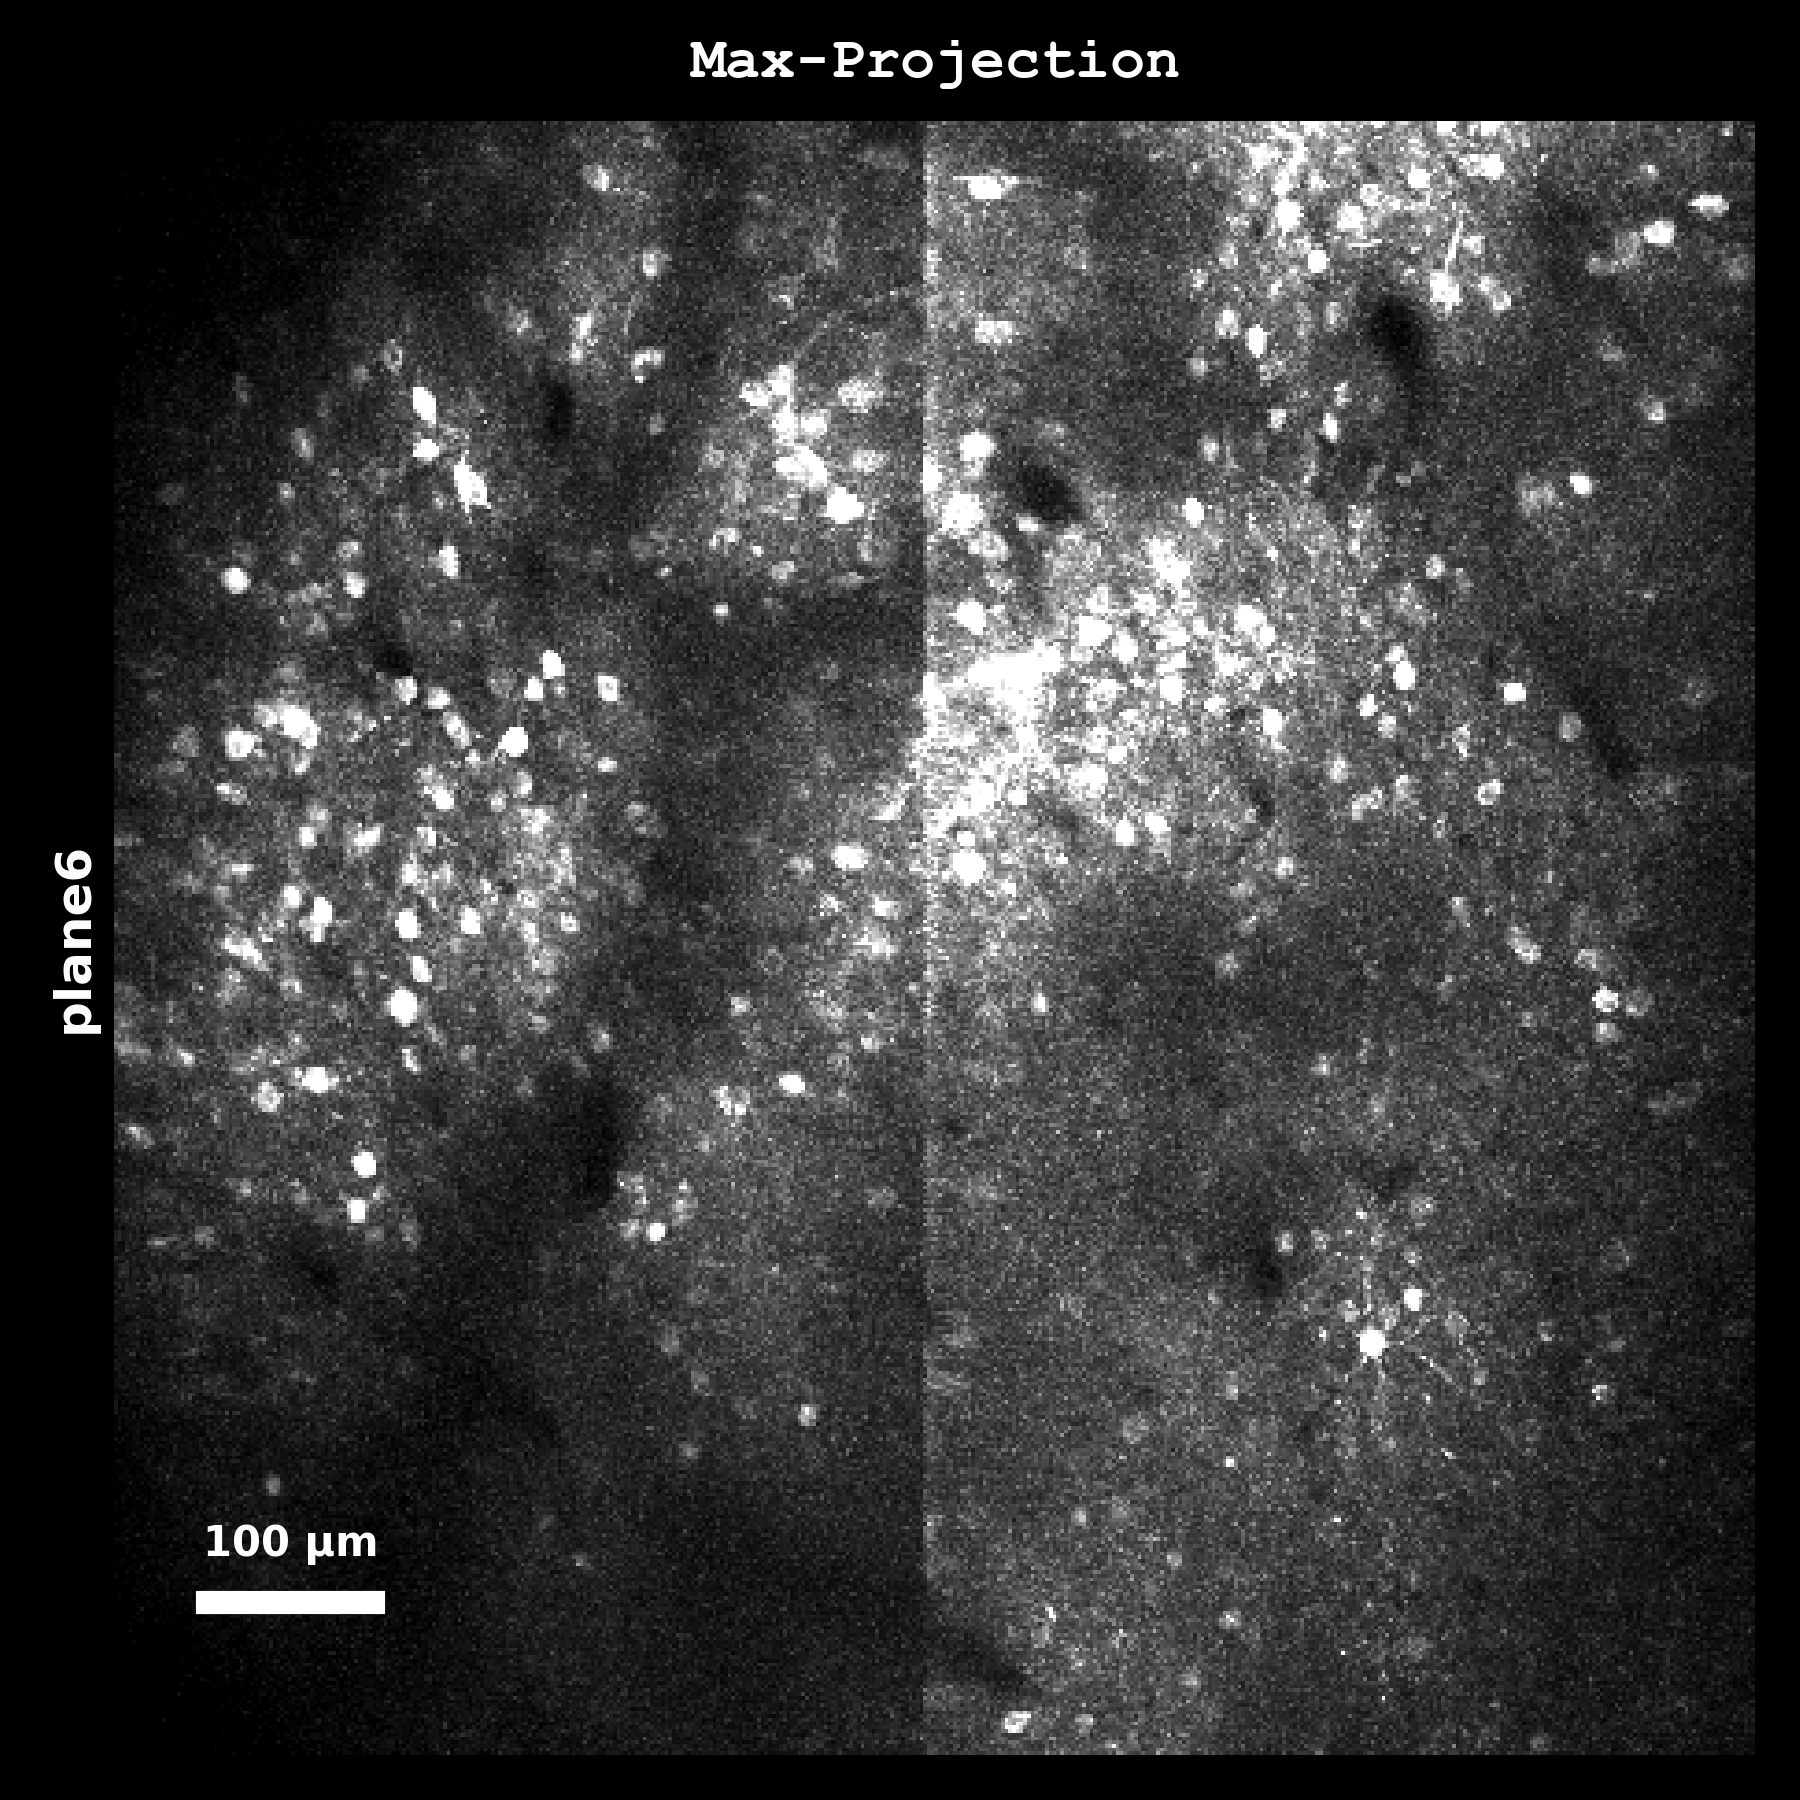
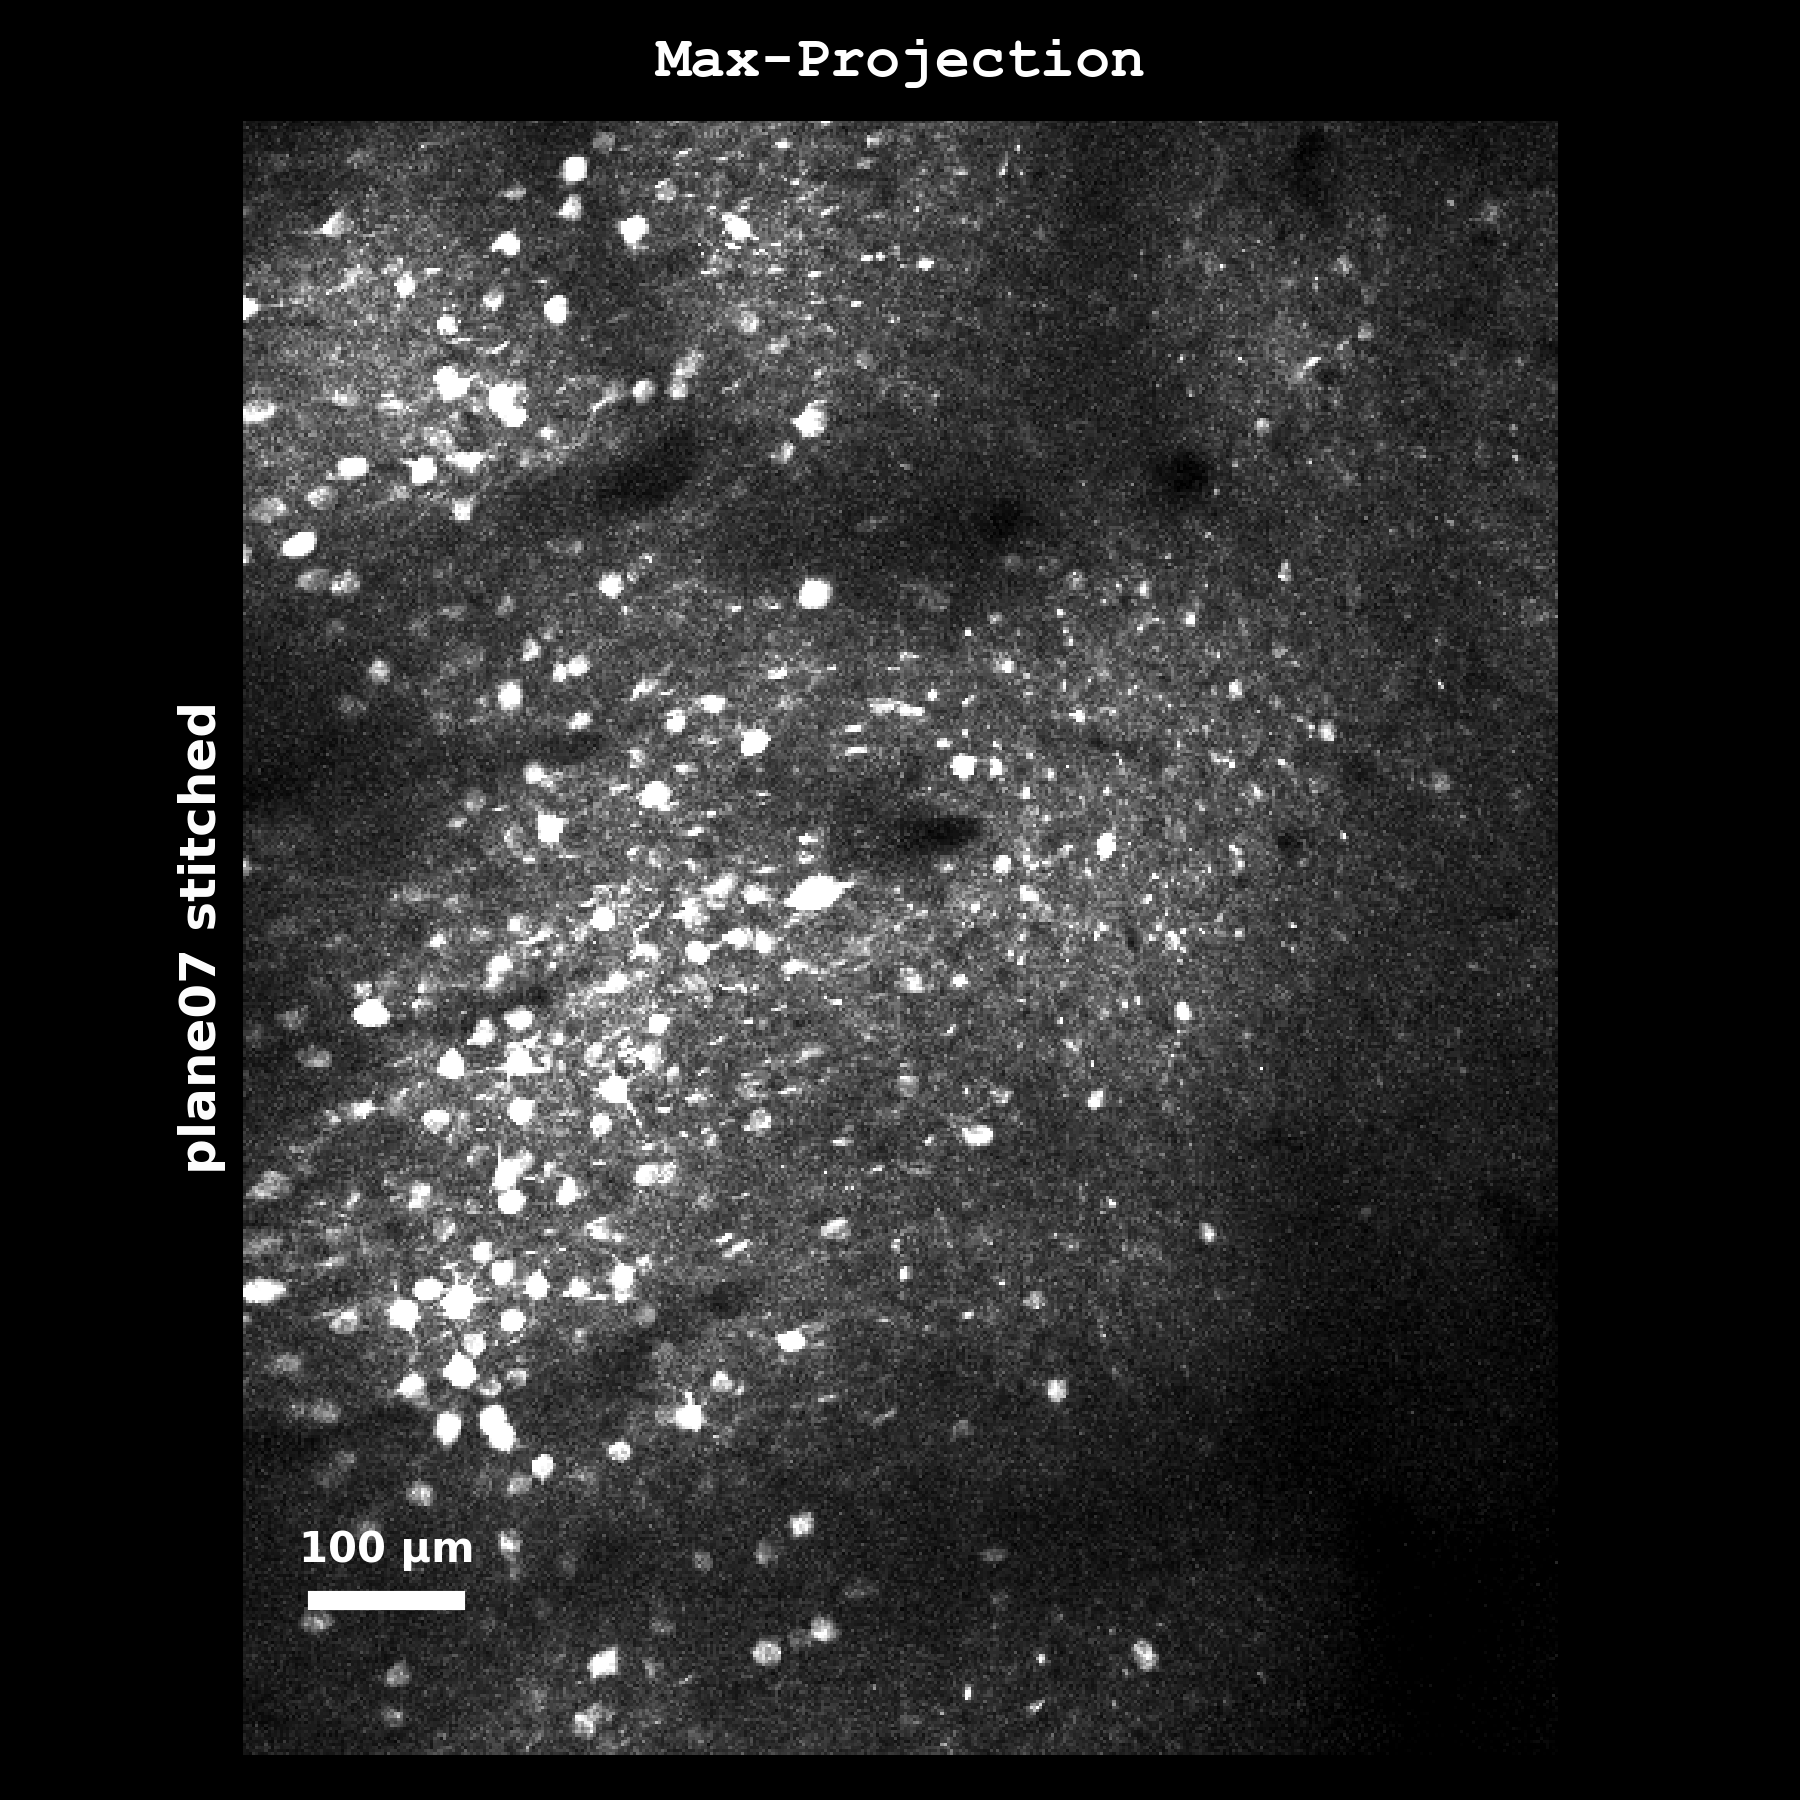
update readme, user guide, grid-search nb

diff --git a/demos/scripts/run_volume.py b/demos/scripts/run_volume.py
@@ -1,20 +1,23 @@
 from pathlib import Path
 import lbm_suite2p_python as lsp
 
-base_dir = r"D:\demo\local_nvme"
-filename = "data_raw.bin"
+base_dir = r"D:\demo\ome_v2\sharded"
+query_str = ".zarr"
 
-input_files = list(Path(base_dir).rglob(f"*{filename}*"))
+input_files = list(Path(base_dir).rglob(f"*{query_str}*"))
 
 new_ops = {
     "anatomical_only": 3,
     "diameter": 4,
     "cellprob_threshold": -6,
     "flow_threshold": 0,
-    "two_step_registration": True,
+    "spatial_hp_cp": 0.5,
 }
 
 lsp.run_volume(
     input_files=input_files,
+    save_path=None, # saves next to input files
     ops=new_ops,
+    keep_raw=True,
+    keep_reg=True,
 )

diff --git a/README.md b/README.md
@@ -6,65 +6,35 @@
 
 A volumetric 2-photon calcium imaging processing pipeline for Light Beads Microscopy (LBM) datasets, built on Suite2p.
 
-A GUI is available via [mbo_utilities]() Functionality is available via GUI
-around [mbo_utilities]() which handles .tiff, .zarr, .bin, and .h5 file I/O
+A GUI is available via [mbo_utilities](https://millerbrainobservatory.github.io/mbo_utilities/index.html#gui).
+
+GUI functionality will lag behind this pipeline.
 
 > **Status:** Late-beta stage of development
 
-## Overview
-
-LBM-Suite2p-Python processes multi-plane calcium imaging data by:
-1. Converting raw TIFF files to binary format for Suite2p
-2. Running registration, segmentation, and extraction on individual z-planes
-3. Aggregating planar results into volumetric outputs
-4. Providing visualization and analysis tools
-
-**Key Features:**
-- Planar-by-planar Suite2p processing optimized for volumetric data
-- ScanImage multi-ROI support with automatic detection and merging
-- Robust binary validation to avoid redundant reprocessing
-- Post-processing filters (area, eccentricity, exceptional events)
-- ΔF/F calculation with rolling percentile baseline
-- Volumetric visualization and Rastermap clustering
-
 ## Quick Start
 
-### Installation
+See the [installation documentation](https://millerbrainobservatory.github.io/LBM-Suite2p-Python/install.html) for GUI dependencies and troubleshooting.
 
 ```bash
-# Recommended: using uv
 uv pip install lbm_suite2p_python
-
-# Or with pip
-pip install lbm_suite2p_python
-
-# Development install from source
-git clone https://github.com/MillerBrainObservatory/LBM-Suite2p-Python.git
-cd LBM-Suite2p-Python
-pip install -e "."
 ```
-
-**Python requirement:** 3.12.7 to <3.12.10
-
-See [Installation Guide](https://millerbrainobservatory.github.io/LBM-Suite2p-Python/install.html) for detailed instructions.
 
 ### Basic Usage
 
 ```python
-import mbo_utilities as mbo
 import lbm_suite2p_python as lsp
 
-# Get list of z-plane TIFFs (planar timeseries format: T, Y, X)
-files = mbo.get_files(data_dir, "tiff", max_depth=3)
-
-# Get metadata and create ops
-metadata = mbo.get_metadata(files[0])
-ops = mbo.params_from_metadata(metadata)
+ops = {"two_step_registration": 1}
+files = [
+    r"D://demo//plane05_stitched.zarr",
+    r"D://demo//plane06_stitched.zarr",
+]
 
 # Process entire volume
 output_ops = lsp.run_volume(
     input_files=files,
-    save_path=save_dir,
+    save_path=None,     # save next to tiffs
     ops=ops,
     keep_reg=True,      # Keep registered binaries
     force_reg=False,    # Skip if already registered
@@ -75,66 +45,19 @@ output_ops = lsp.run_volume(
 **Process a single plane:**
 ```python
 ops_file = lsp.run_plane(
-    input_path=plane_file,
-    save_path=plane_dir,
+    input_path=files[0],
+    save_path=None,
     ops=ops,
     keep_raw=False,  # Delete data_raw.bin after processing
     keep_reg=True    # Keep data.bin (registered binary)
 )
 ```
 
-See [User Guide](https://millerbrainobservatory.github.io/LBM-Suite2p-Python/user_guide.html) for complete examples and parameter tuning.
-
-## Output Structure
-
-**Per-plane outputs:**
-```
-{save_path}/{plane_tag}/
-├── ops.npy              # Suite2p operations and results
-├── stat.npy             # ROI statistics (pixel coordinates, weights)
-├── F.npy                # Fluorescence traces (n_rois, n_frames)
-├── Fneu.npy             # Neuropil fluorescence
-├── spks.npy             # Deconvolved spike traces
-├── iscell.npy           # Classification (is_cell, probability)
-├── data.bin             # Registered binary (if keep_reg=True)
-├── pc_metrics/          # Principal component analysis
-└── *.png                # Visualization plots
-```
-
-**Volumetric outputs (at save_path root):**
-```
-{save_path}/
-├── volume_stats.npy     # Per-plane statistics
-├── rastermap.png        # Clustered activity (if rastermap installed)
-└── mean_volume_signal.png  # Signal strength across planes
-```
-
-## Key Parameters
-
-Critical Suite2p parameters (see [Parameter Guide](https://millerbrainobservatory.github.io/LBM-Suite2p-Python/user_guide.html#parameters)):
-
-| Parameter | Effect | Default | Recommended |
-|-----------|--------|---------|-------------|
-| `diameter` | Expected cell size (pixels) | 0 (auto) | 6-15 for neurons |
-| `threshold_scaling` | Detection sensitivity | 1.0 | 0.8-1.5 (higher = fewer ROIs) |
-| `tau` | Ca²⁺ decay constant (s) | 1.0 | 0.7-2.0 (GCaMP6f: ~1.0) |
-| `fs` | Frame rate (Hz) | 10.0 | Must match acquisition |
-| `nonrigid` | Block-wise registration | True | True for drifting FOV |
-| `do_registration` | Registration mode | 1 (run if needed) | 0=skip, 1=auto, 2=force |
-
-**LBM-specific defaults:**
-- `nplanes=1` - Process each z-plane independently
-- `do_bidiphase=0` - Assumes pre-corrected data
-- `do_regmetrics=True` - Always compute registration quality
-
 ## Documentation
 
-- **[Full Documentation](https://millerbrainobservatory.github.io/LBM-Suite2p-Python/)**
 - **[Installation Guide](https://millerbrainobservatory.github.io/LBM-Suite2p-Python/install.html)**
 - **[User Guide](https://millerbrainobservatory.github.io/LBM-Suite2p-Python/user_guide.html)** - Complete usage examples
 - **[API Reference](https://millerbrainobservatory.github.io/LBM-Suite2p-Python/api.html)**
-- **[Glossary](https://millerbrainobservatory.github.io/LBM-Suite2p-Python/glossary.html)**
-- **[CLAUDE.md](./CLAUDE.md)** - Technical deep-dive for AI assistants
 
 ## Built With
 
@@ -145,32 +68,6 @@ This pipeline integrates several open-source tools:
 - **[Rastermap](https://github.com/MouseLand/rastermap)** - Activity clustering (optional)
 - **[mbo_utilities](https://github.com/MillerBrainObservatory/mbo_utilities)** - ScanImage I/O and metadata
 - **[scanreader](https://github.com/atlab/scanreader)** - ScanImage metadata parsing
-
-## Citation
-
-If you use this pipeline, please cite:
-
-```bibtex
-@article{pachitariu2017suite2p,
-  title={Suite2p: beyond 10,000 neurons with standard two-photon microscopy},
-  author={Pachitariu, Marius and Stringer, Carsen and Dipoppa, Mario and Schr{\"o}der, Sylvia and Rossi, L Federico and Dalgleish, Henry and Carandini, Matteo and Harris, Kenneth D},
-  journal={bioRxiv},
-  pages={061507},
-  year={2017},
-  publisher={Cold Spring Harbor Laboratory}
-}
-
-@article{duemani2021light,
-  title={Light-beads microscopy for volumetric imaging},
-  author={Duemani Reddy, Gaddum and Kelleher, Kripa and Fink, Reid and Saggau, Peter},
-  journal={Nature methods},
-  volume={18},
-  number={9},
-  pages={1082--1090},
-  year={2021},
-  publisher={Nature Publishing Group}
-}
-```
 
 ## Issues & Support
 
@@ -184,17 +81,3 @@ Contributions are welcome! This project follows Suite2p's conventions and uses:
 - **Ruff** for linting and formatting (line length: 88, numpy docstring style)
 - **pytest** for testing
 - **Sphinx** for documentation
-
-## Acknowledgements
-
-This pipeline is primarily a volumetric wrapper around the excellent work by:
-- **Suite2p team** (Marius Pachitariu, Carsen Stringer, et al.)
-- **Cellpose team** (Carsen Stringer, Marius Pachitariu, et al.)
-- **Suite3D** (Ali Haydaroglu)
-- **scanreader team** (atlab)
-
-Special thanks to the Miller Brain Observatory team for testing and feedback.
-
-## License
-
-See LICENSE file for details.

diff --git a/docs/user_guide.md b/docs/user_guide.md
@@ -18,14 +18,19 @@ import mbo_utilities as mbo
 import lbm_suite2p_python as lsp
 from pathlib import Path
 
-# 1. Get assembled planar TIFF files
-files = mbo.get_files(data_dir, "tiff", max_depth=3)
+# 1. Get planar outputs from mbo.imwrite
+data_dir = Path(r"D://demo//local_nvme")
 
-# 2. Extract metadata and create ops
-metadata = mbo.get_metadata(files[0])
-ops = mbo.params_from_metadata(metadata)  # Auto-fills fs, dx, dy, Ly, Lx
+files = mbo.get_files(data_dir, "tiff", max_depth=3) # tiff
+files = list(data_dir.glob("*.zarr*"))               # zarr
+files = list(data_dir.glob("*data_raw.bin*"))        # suite2p binary
 
 # 3. Process entire volume
+save_dir = Path(r"D://demo//local_nvme//suite2p")
+ops = {
+    "two_step_registration": True # default is False
+}
+
 output_ops = lsp.run_volume(
     input_files=files,
     save_path=save_dir,
@@ -43,8 +48,8 @@ For testing parameters or processing individual planes:
 
 ```python
 ops_file = lsp.run_plane(
-    input_path=plane_file,
-    save_path=plane_dir,
+    input_path=files[0],
+    save_path=save_dir,
     ops=ops,
     chan2_file=None,     # Optional: structural channel for registration
     keep_raw=False,
@@ -78,6 +83,50 @@ Each plane gets its own directory with Suite2p outputs:
 └── *.png                # Visualization plots
 ```
 
+```{figure} _images/planar_output_files.png
+:name: fig-planar-files
+:alt: Planar output files structure
+:width: 80%
+
+Example plane directory showing Suite2p outputs and visualization files.
+```
+
+#### Visualization Outputs
+
+Processing generates several diagnostic plots automatically:
+
+```{figure} _images/segmentation.png
+:name: fig-segmentation
+:alt: Cell segmentation results
+:width: 100%
+
+**Cell segmentation**: Detected ROI masks overlaid on mean image. Green = accepted cells, red = rejected.
+```
+
+```{figure} _images/max_projection_image.png
+:name: fig-max-proj
+:alt: Maximum projection
+:width: 100%
+
+**Maximum projection**: Brightest pixel values across all frames, revealing anatomical structure.
+```
+
+```{figure} _images/traces.png
+:name: fig-traces
+:alt: Fluorescence traces
+:width: 100%
+
+**Activity traces**: Raw fluorescence (F) and neuropil (Fneu) traces for detected cells.
+```
+
+```{figure} _images/rastermap.png
+:name: fig-rastermap-plane
+:alt: Rastermap clustering
+:width: 100%
+
+**Rastermap clustering**: Cells sorted by activity similarity, revealing functional structure.
+```
+
 **Conditional outputs (if `chan2_file` provided):**
 ```
 ├── data_chan2.bin       # Raw structural channel
@@ -109,6 +158,13 @@ Each plane directory contains PC-based registration quality metrics in `pc_metri
 ├── pc_metrics_panels.tif       # PC spatial patterns (Low/High)
 └── pc_metrics_raw.npy          # Raw regDX array (5, 3)
 ```
+
+<video width="100%" controls>
+  <source src="../_images/pc_metrics.mp4" type="video/mp4">
+  Your browser does not support the video tag.
+</video>
+
+**PC metrics visualization**: Top and bottom temporal halves for each principal component, showing spatial patterns used to assess registration quality.
 
 **Example PC metrics table** (`pc_metrics.csv`):
 
